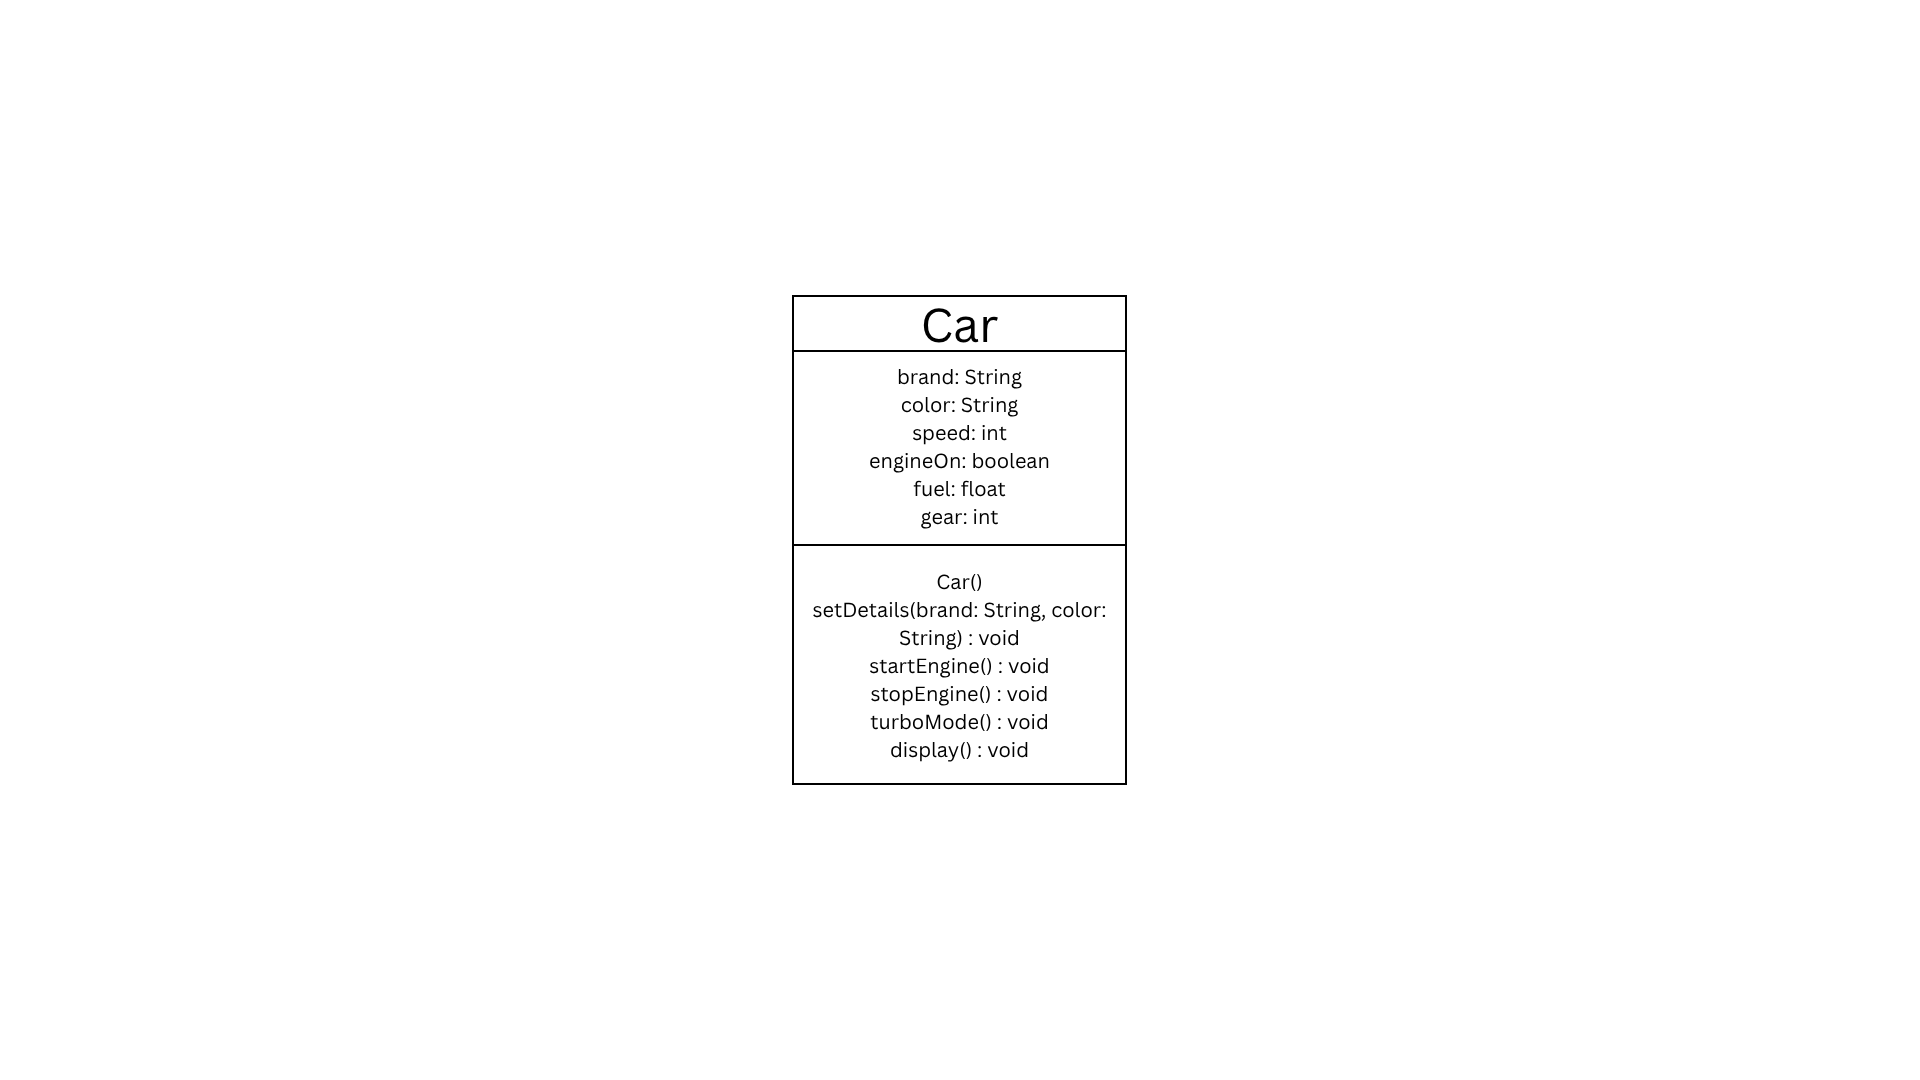
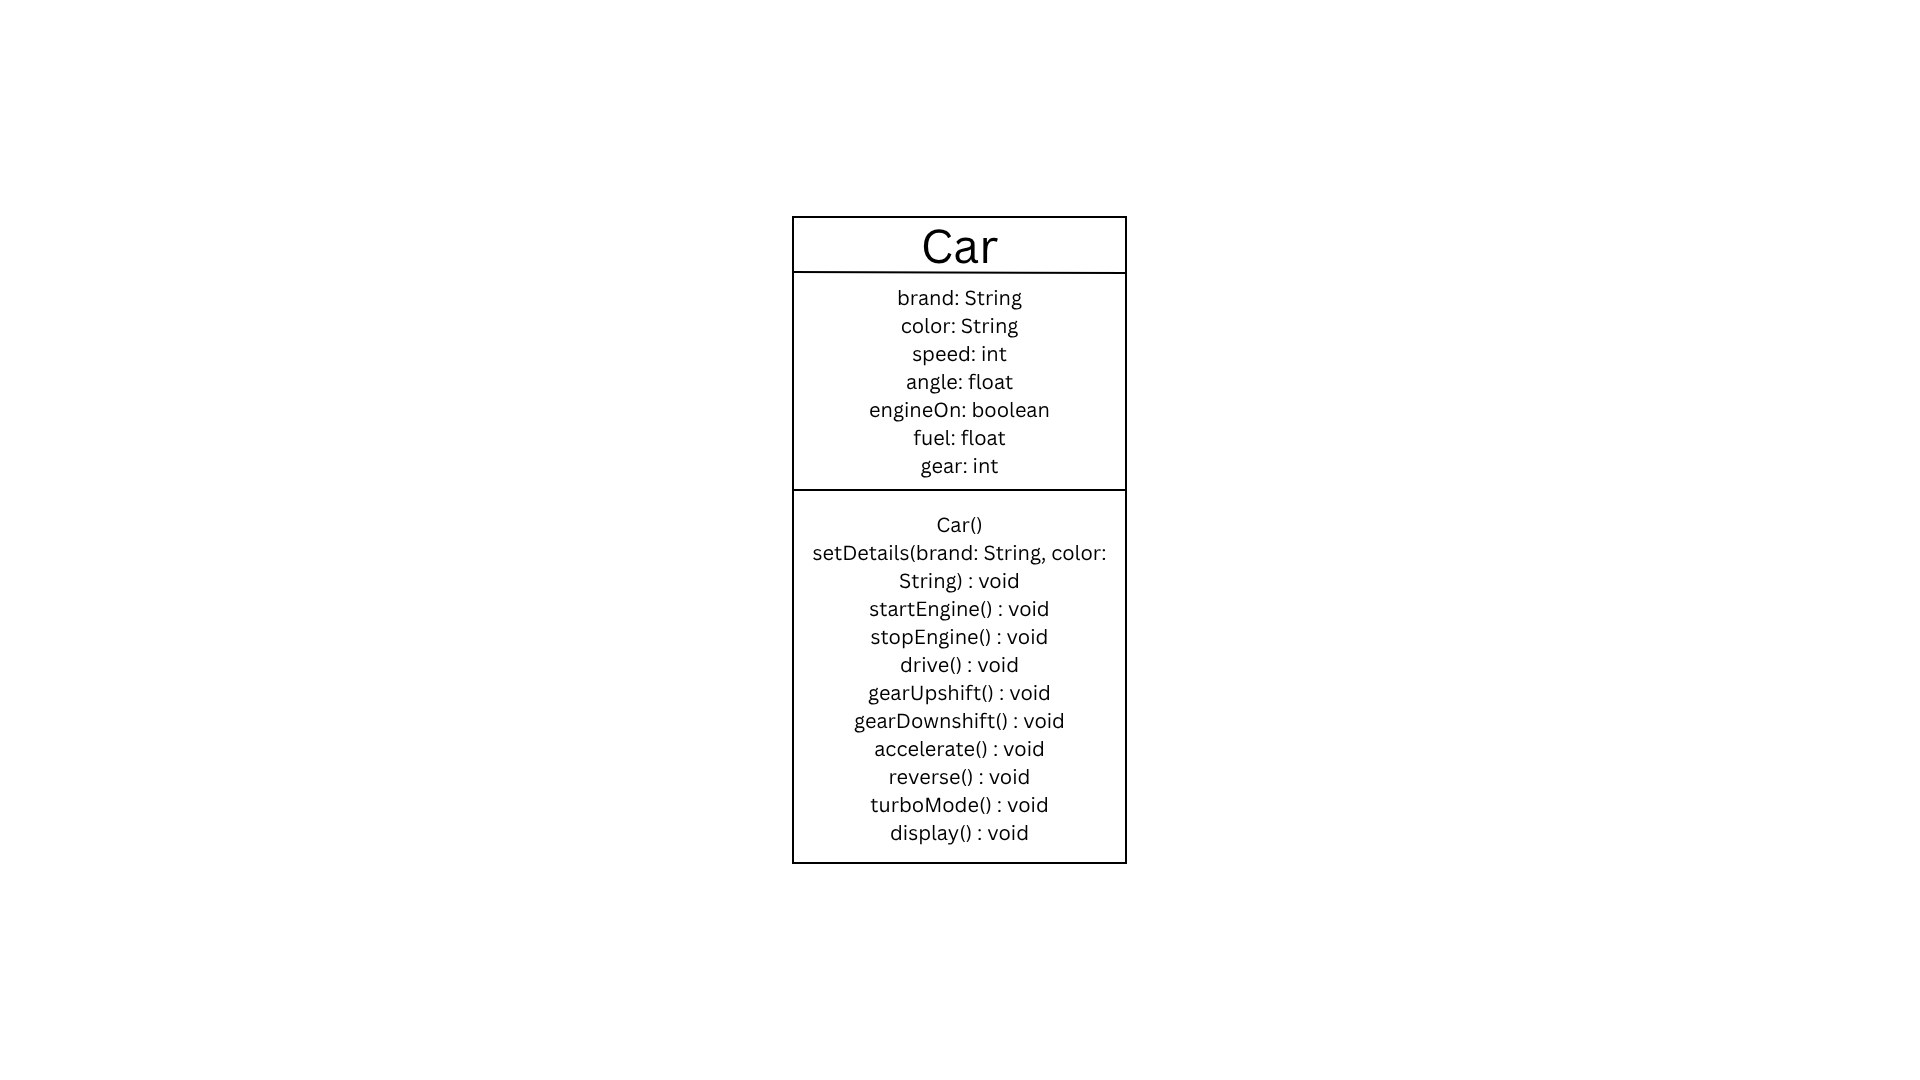
finished CarDemo

Changed region(s): [[0.4062, 0.2139, 0.5938, 0.7944]]

diff --git a/second-sem/week01_Muhammad_Arham_Noman_088/CarDemo/Car.java b/second-sem/week01_Muhammad_Arham_Noman_088/CarDemo/Car.java
@@ -2,6 +2,7 @@ public class Car {
     private String brand;
     private String color;
     private int speed;
+    private float angle;
     private boolean engineOn;
     private float fuel;
     private int gear;
@@ -11,25 +12,162 @@ public class Car {
         this.brand = "Unknown";
         this.color = "Unpainted";
         this.speed = 0;
+        this.angle = 0;
         this.engineOn = false;
         this.fuel = 100;
         this.gear = 0;
     }
 
-    public setDetails(String brand, String color)
+    public void setDetails(String brand, String color)
     {
         this.brand = brand;
         this.color = color;
     }
 
-    public display()
+    public void startEngine()
+    {
+        if (this.fuel == 0)
+        {
+            System.out.println("Refuel your car");
+        }
+
+        else
+        {
+            this.engineOn = true;
+            System.out.println(this.brand + " engine started");
+        }
+    }
+
+    public void accelerate(int new_speed)
+    {
+        if (this.engineOn == false)
+        {
+            System.out.println("Please turn on the engine first");
+        }
+
+        if (new_speed < this.speed || new_speed < 0)
+        {
+            System.out.println("Can't accelerate with a speed lesser than the current speed");
+        }
+
+        else
+        {            
+            this.speed = this.speed + new_speed;
+            this.fuel = this.fuel - 10;
+            System.out.println(this.brand + " accelerated to " + this.speed);
+        }
+    }
+
+    public void reverse()
+    {
+        if (this.engineOn == false)
+        {
+            System.out.println("Please turn on the engine first");
+        }
+
+        else
+        {
+            this.angle = -180;
+            this.fuel = this.fuel - 10;
+            System.out.println(this.brand + " reversing...");
+        }
+    }
+
+    public void gearUpshift(int new_gear)
+    {
+        if (this.engineOn == false)
+        {
+            System.out.println("Please turn on the engine first");
+        }
+
+        if (new_gear < gear || new_gear < 0 || new_gear > 6)
+        {
+            System.out.println("Invalid upshift. Current gear is " + this.gear);
+        }
+
+        else
+        {
+            this.gear = new_gear;
+            this.speed = this.speed + 10;
+            System.out.println(this.brand + " gear upshifted to " + this.gear);
+        }
+    }
+
+    public void gearDownshift(int new_gear)
+    {
+        if (this.engineOn == false)
+        {
+            System.out.println("Please turn on the engine first");
+        }
+
+        if (new_gear > gear || new_gear < 0)
+        {
+            System.out.println("Invalid downshift. Current gear is " + this.gear);
+        }
+
+        else
+        {
+            this.gear = new_gear;
+            this.speed = this.speed + 10;
+            System.out.println(this.brand + " gear downshifted to " + this.gear);
+        }
+    }
+
+    public void drive()
+    {
+        if (this.engineOn == false)
+        {
+            System.out.println("Please turn on the engine first");
+        }
+
+        if (this.speed == 0)
+        {
+            System.out.println("Please accelerate the car first");
+        }
+
+        else
+        {
+            this.fuel = this.fuel - 10;
+            System.out.println("Vroom vroom! " + this.brand + " is moving with a speed of " + this.speed + " and an angle of " + this.angle);
+        }
+    }
+
+    public void stopEngine()
+    {        
+        if (this.engineOn == false)
+        {
+            System.out.println("Please turn on the engine first");
+        }
+
+        this.speed = 0;
+        this.engineOn = false;
+        System.out.println(this.brand + " engine stopped");
+    }
+
+    public void turboMode()
+    {
+        if (this.engineOn == false)
+        {
+            System.out.println("Please turn on the engine first");
+        }
+
+        else
+        {
+            this.speed = 200;
+            this.fuel = this.fuel - 50;
+            System.out.println(this.brand + "Turbo Mode Activated!!!");
+        }
+    }
+
+    public void display()
     {
         System.out.println("The brand of car is: " + this.brand);
         System.out.println("The color of car is: " + this.color);
         System.out.println("The speed of car is: " + this.speed);
+        System.out.println("The angle of car is: " + this.angle);
         System.out.println("The engine is: " + this.engineOn);
         System.out.println("The fuel of car is: " + this.fuel);
         System.out.println("The gear of car is: " + this.gear);
-
+        System.out.println("=================================");
     }
 }

diff --git a/second-sem/week01_Muhammad_Arham_Noman_088/CarDemo/Main.java b/second-sem/week01_Muhammad_Arham_Noman_088/CarDemo/Main.java
@@ -2,8 +2,42 @@ public class Main {
     public static void main(String args[])
     {
         Car bmw = new Car();
-        bmw.setDetails(bmw, blue);
+        Car tesla = new Car();
+
+        bmw.setDetails("bmw", "blue");
+        tesla.setDetails("tesla", "red");
 
         bmw.display();
+        tesla.display();
+
+        bmw.startEngine();
+        bmw.display();
+
+        bmw.accelerate(10);
+        bmw.accelerate(50);
+        bmw.display();
+
+        bmw.drive();
+
+        bmw.gearUpshift(7);
+        bmw.gearUpshift(5);
+        bmw.gearUpshift(1);
+        bmw.display();
+
+        bmw.gearDownshift(6);
+        bmw.gearDownshift(-1);
+        bmw.gearDownshift(4);
+        bmw.display();
+
+        bmw.reverse();
+        bmw.display();
+
+        bmw.turboMode();
+        bmw.display();
+
+        bmw.stopEngine();
+        bmw.display();
+
+        tesla.display();
     }
 }
